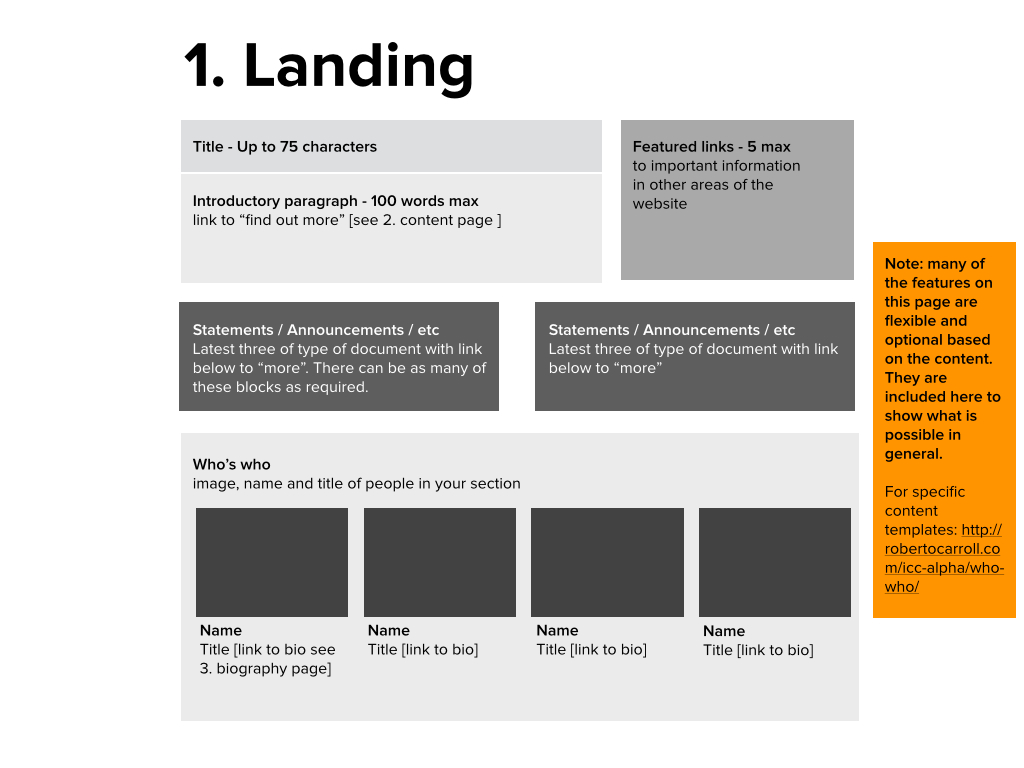
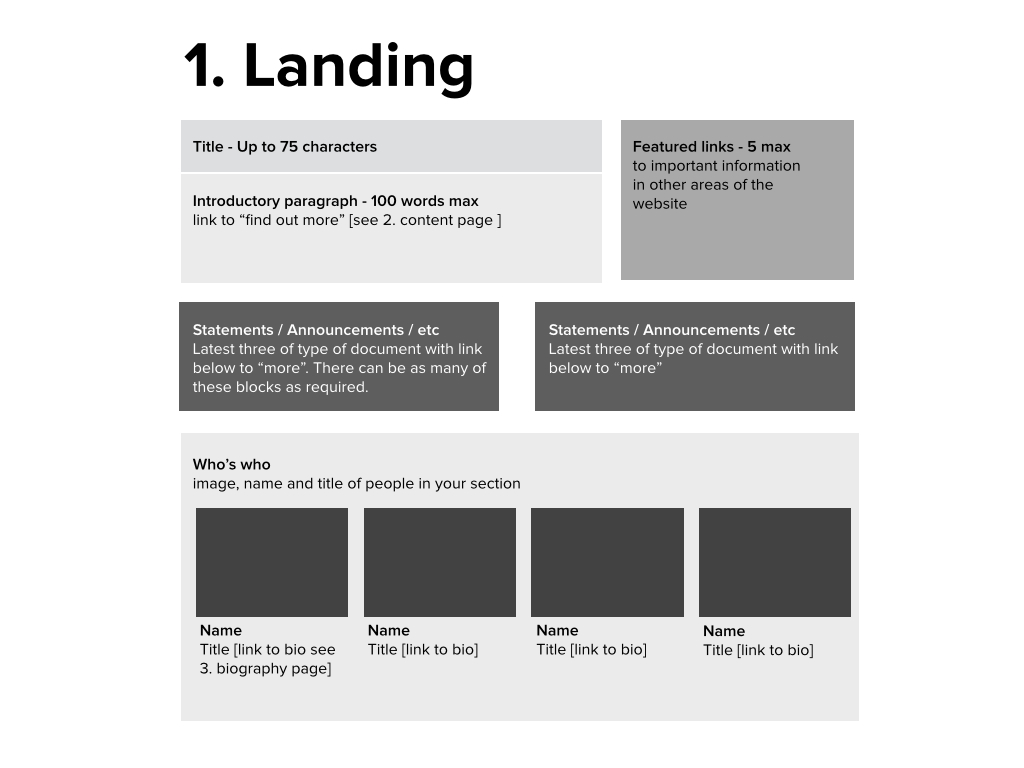
Updates to content guide

Changed region(s): [[0.8438, 0.3125, 1.0, 0.8125]]

diff --git a/who-who/index.html b/who-who/index.html
@@ -43,15 +43,70 @@
   <script>window.jQuery || document.write('<script src="assets/build/jquery-1.10.2.min.js"><\/script>')</script>	
 
 <body>
-<article role="main" class="col wide content-main">
+<article role="main" class="col two-thirds content-main">
 
-		<h2 class="grey">Content checklist</h2>					
+	<h1>ICC Content guide</h1>	
+
+	<ul>
+			<li><a href="#overview">Overview</a></li>
+			<li><a href="#checklist">Content checklist</a></li>
+			<li><a href="#landing">Landing section template and examples</a></li>
+			<li><a href="#article">Article template and examples</a></li>
+			<li><a href="#biography">Biography template and examples</a></li>
+		
+	</ul>
+
+	<h2 id="overview">Writing for the ICC</h2>
+	<p>The new ICC website aims to serve existing users better as well as to attract and engage a wider audience about the importance of the ICC and the effects of its work.</p>
+
+	<ul>
+					<li>Quicker, easier, clearer</li>
+					<li>More vibrant, more human, more engaging</li>
+					<li>More efficient, more effective</li>
+					<li>Accessible by everyone, everywhere</li>
+			</ul>	
+
+	<p>The following guidance will help us achieve these aims and make information on the ICC website clear and easy to understand.</p>   	
+
+	<h3>Start with user needs</h3>
+	<ul>
+					<li>Write with a particular user in mind</li>
+					<li>Ask yourself: what am I trying to say?</li>
+					<li>What is the page trying to achieve? </li>
+					<li>What response (if any) would you like? </li>
+			</ul>	
+
+	<h3>Active voice</h3>
+	<p>Use the active voice rather than passive voice whenever possible.</p>
+
+	<h3>Be concise</h3>
+	<ul>
+			<li>Use short sentences</li>
+			<li>Don't create walls of text. Use sections (250 words max) with clear and informative headings</li>
+			<li>Use bullet points and lists if appropriate</li>
+		</ul>	
+
+	<h3>Don’t be stuffy</h3>	
+	<ul>
+		<li>Try to use the language of every day speech.</li>
+		<li>Avoid legalese, jargon, euphemisms, obscure Latin terms, unexplained acronyms and abbreviations.</li>
+		<li>Check the terms users search for and incorporate them (PIDS can help with this process if required).</li>
+	</ul>
+
+	<h3>Address the user</h3>	
+	<p>Refer to the user as "you" unless the effect is jarring. For example, "You can contact us by phone or email."</p>
+
+	<h3>Don't duplicate information</h3>	
+	<p>Avoid including chunks of text when that text has been published elsewhere on the site. For example, refer to an article in the Rome Statute and link to the article rather than including the article in the text.</p>
+	<p>In practice, there will always be a balance between providing context and explanation and linking to a reference, but the idea is to cut down the amount of text (c.f. current ICC site) and to avoid repetition across the site.</p>  
+
+		<h2 id="checklist">Content checklist</h2>					
 			<p>Print <a href="https://www.dropbox.com/s/znm5c0l4256lrg8/ICC-content-checklist-D1-R1.pdf?dl=0">a content checklist</a> for each piece of content and work through the points.</p>
 
-	<h2 class="grey">1. Landing template</h2>	
+	<h2 id="landing">1. Landing template</h2>	
 		
 	<p><a href="landing-content-template.html">Landing content template</a> is for sections with lots of content and many possible journeys.</p>
-	<p>The following sections will use the landing template (customised to suit the needs of your organ or department).</p>
+	<p>The following sections will use the landing template (customised to suit the needs of your organ or department). These examples use existing content to show possible structure and formatting, but take this opportunity to re-write, improve, edit and pare down content.</p></p>
 
 			<ul>
 				<li ><a href="presidency.html">Presidency</a></li>
@@ -64,7 +119,7 @@
 															
 			</ul>
 
-			<h2 class="grey">2. Article template</h2>	
+			<h2 id="article">2. Article template</h2>	
 			<p><a href="standard-content-template.html">Standard content template</a> (will work for most things)</p>
 			<p>Many sections will use the article template including all "How we work" sections and these ones:</p>				
 			<ul>
@@ -73,8 +128,11 @@
 					<li ><a href="#">Our Building</a></li>
 			</ul>						
 
-			<h2 class="grey">3. Biography template</h2>	
-			<p><a href="biography-template.html">Biography content template</a> is used for biographies. <a href="biography.html">Here's an example of a biography.</a></p>	
+			<h2 id="biography">3. Biography template</h2>	
+			<p><a href="biography-template.html">Biography content template</a> will be used to let users find out more about the people at the highest levels of the Court. <a href="biography.html">Here's an example of a biography.</a></p>
+
+			<p>&nbsp;</p><p>&nbsp;</p><p>&nbsp;</p><p>&nbsp;</p><p>&nbsp;</p><p>&nbsp;</p><p>&nbsp;</p><p>&nbsp;</p><p>&nbsp;</p><p>&nbsp;</p><p>&nbsp;</p><p>&nbsp;</p>
+
 
 </article>
 </body>

diff --git a/who-who/landing-content-template.html b/who-who/landing-content-template.html
@@ -53,25 +53,32 @@
 
 		<div class="col two-thirds padded-right">	    
 
-			<img class="case-image" src="../assets/images/03-Biography-content-templates.jpg" alt="Sample image">
+			<img class="case-image" src="../assets/images/01-Landing-content-template.jpg" alt="Sample image">
 
 		</div>
 
 		<div class="col one-third padded-left">
 				<p>Print <a href="https://www.dropbox.com/s/znm5c0l4256lrg8/ICC-content-checklist-D1-R1.pdf?dl=0">this content checklist</a> and work through the points.</p>
 
-				<p>See <a href="biography.html">biography</a> for an example</p>
+				<p>Many of the features on this page are flexible and optional based on the content. They are included here to show what is possible in general.</p>
+
+				<p>Examples are provided here using existing content to show what it possible.</p>
+				<ul>
+				<li ><a href="presidency.html">Presidency</a></li>
+				<li ><a href="chambers.html">Judges and Chambers</a></li>
+				<li ><a href="otp.html">Office of the Prosecutor</a></li>
+				<li ><a href="registry.html">Registry</a></li>
+				<li ><a href="defence.html">Defence</a></li>
+				<li ><a href="victims.html">Victims</a></li>
+				<li ><a href="outreach.html">Outreach</a></li>
+															
+			</ul>
 
 		</div>	
 
 	</div>		
 
 		<hr>
-
-		
-
-
-
 		
 	</div><!-- page-content -->
 								
